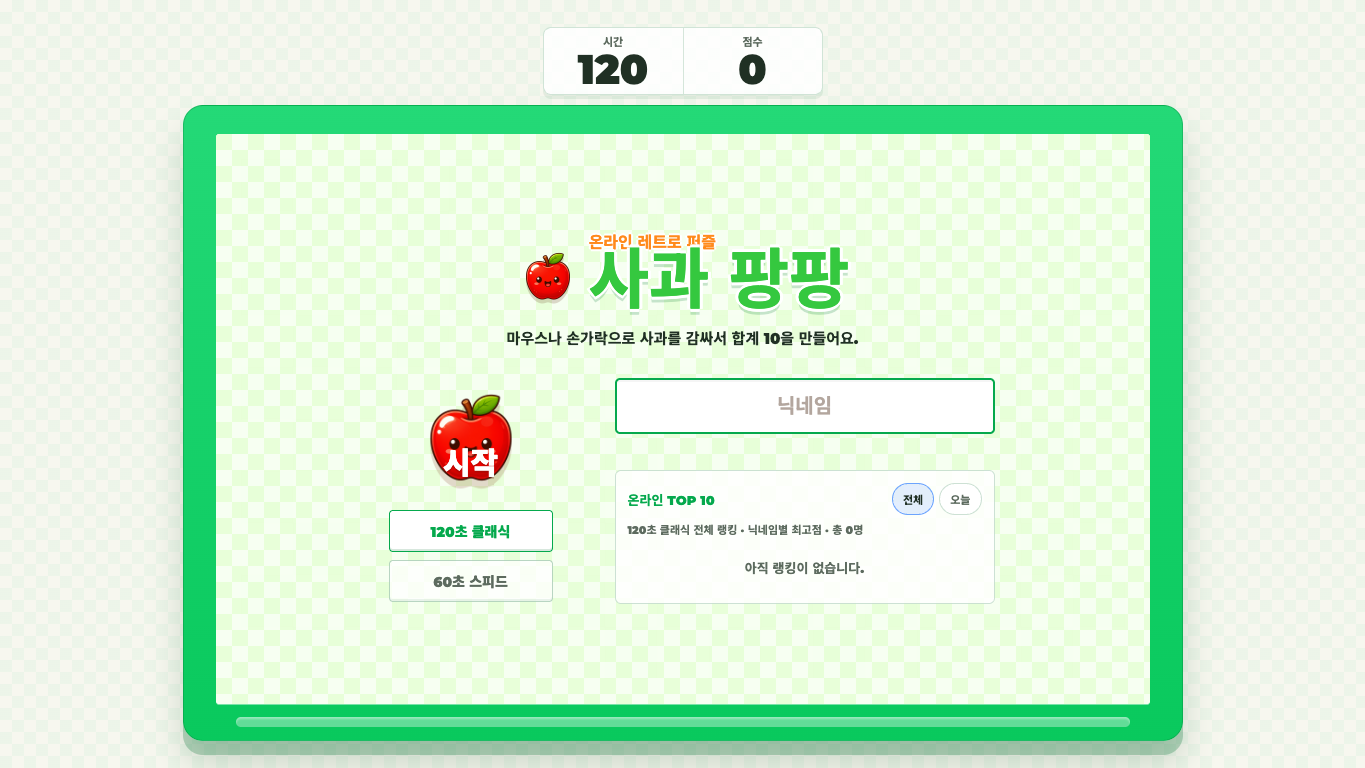
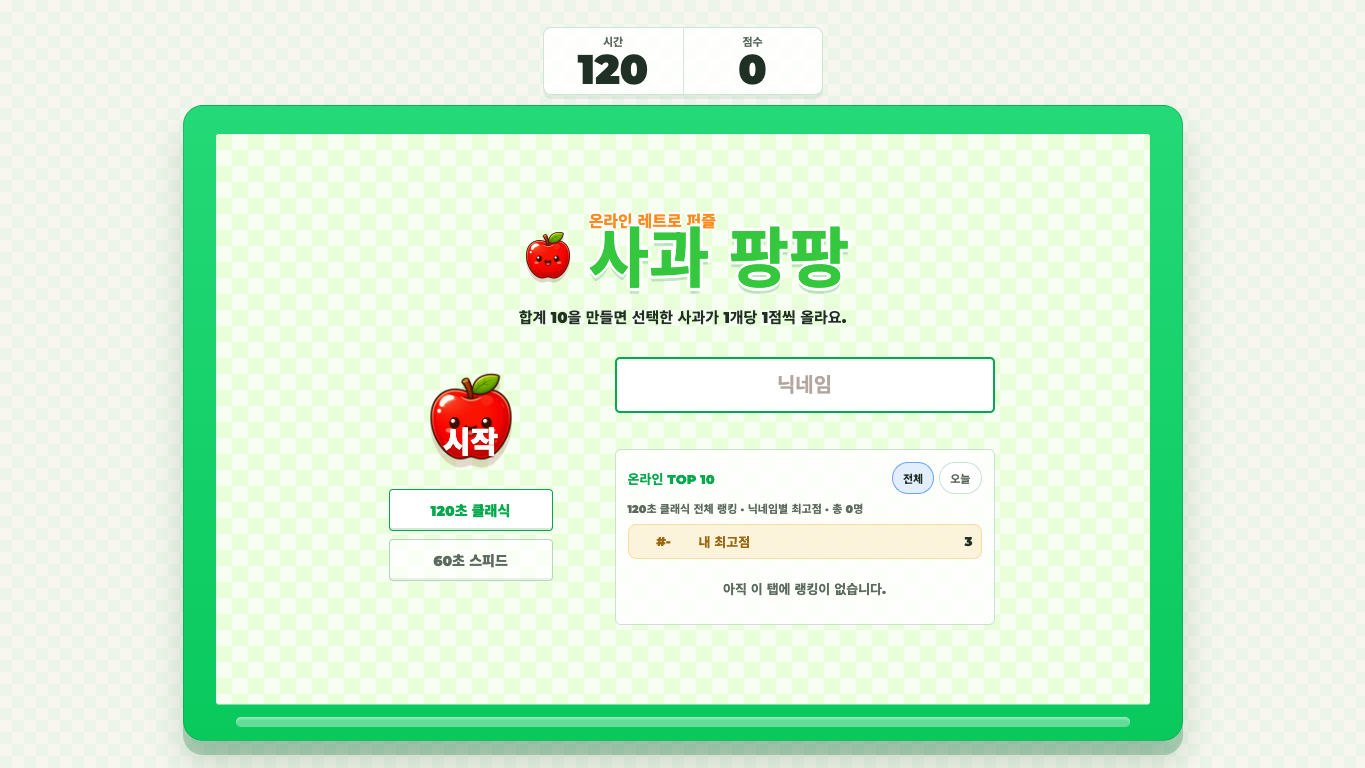
docs: update scoring rules and game preview

Changed region(s): [[0.3692, 0.25, 0.7385, 0.8125], [0.2769, 0.4688, 0.4308, 0.7812]]

diff --git a/README.md b/README.md
@@ -9,6 +9,7 @@
 ## 기능
 
 - 캔버스 기반 사과 퍼즐 게임
+- 합계 10을 만든 사과 1개당 1점
 - 60초 스피드 / 120초 클래식 모드
 - 닉네임별 최고점 랭킹 저장
 - 전체 / 오늘 랭킹 탭
@@ -72,4 +73,4 @@ Realtime Database rules 배포:
 npx firebase-tools deploy --only database --project apple-game-d1038
 ```
 
-랭킹 데이터는 `ranks` 아래에 저장됩니다. 현재 점수판은 `v2_classic_닉네임`, `v2_rush_닉네임` 키를 사용합니다. 닉네임별 최고점만 갱신되며, 더 낮은 점수로는 기존 기록을 덮어쓰지 않습니다.
+랭킹 데이터는 `ranks` 아래에 저장됩니다. 현재 점수판은 `v3_classic_닉네임`, `v3_rush_닉네임` 키를 사용합니다. 닉네임별 최고점만 갱신되며, 더 낮은 점수로는 기존 기록을 덮어쓰지 않습니다.
